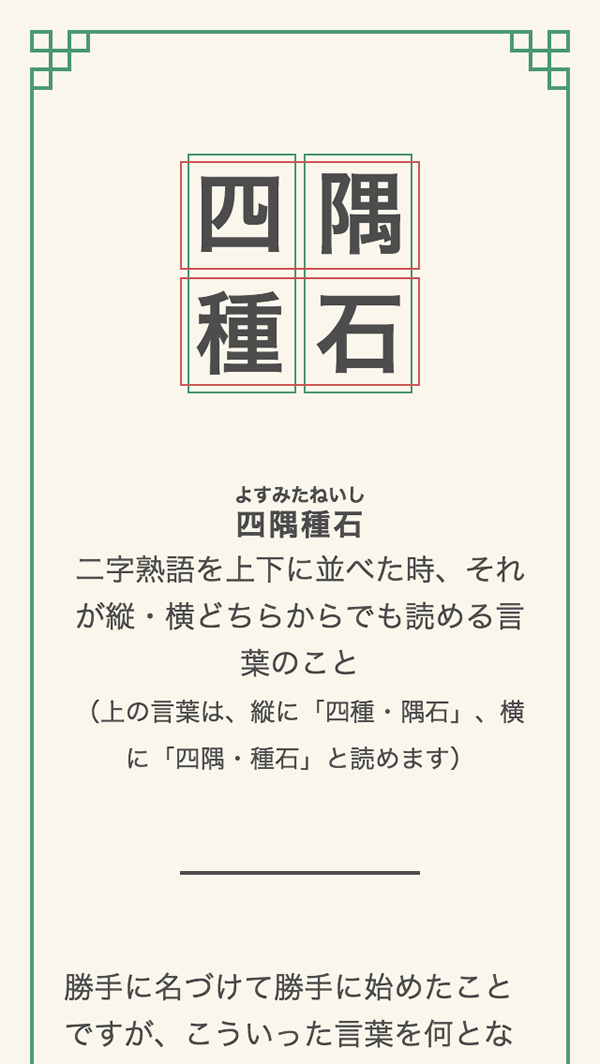
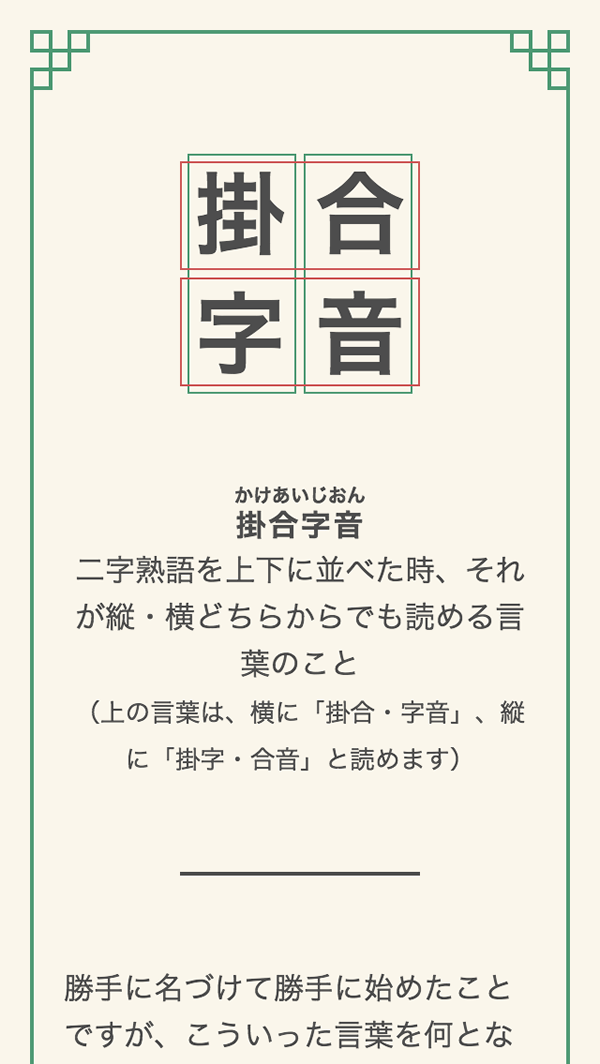
Refine work

diff --git a/content/work/square-phrase.md b/content/work/square-phrase.md
@@ -3,7 +3,7 @@ categories = "web"
 date = "2015-05-21T22:52:22+09:00"
 description = "二字熟語を上下に並べた時、それが縦・横どちらからでも読める言葉を集めたサイト。"
 thumb = "/images/work/square-phrase/thumb.png"
-title = "四隅種石"
+title = "掛合字音"
 work_description = "二字熟語を上下に並べた時、それが縦・横どちらからでも読める言葉を集めたサイトのコンテンツ、デザインを作った。"
 work_url = "http://thleap.github.io/square-phrase"
 
@@ -13,7 +13,7 @@ work_url = "http://thleap.github.io/square-phrase"
 
 +++
 
-![思い付いた四隅種石を掲載したページ](/images/work/square-phrase/index.png)
+![思い付いた掛合字音を掲載したページ](/images/work/square-phrase/index.png)
 
 <div class="image-double">
   <img src="/images/work/square-phrase/index-sp.png" alt="スマホのように幅が狭いデバイスで見たときの状態。">
